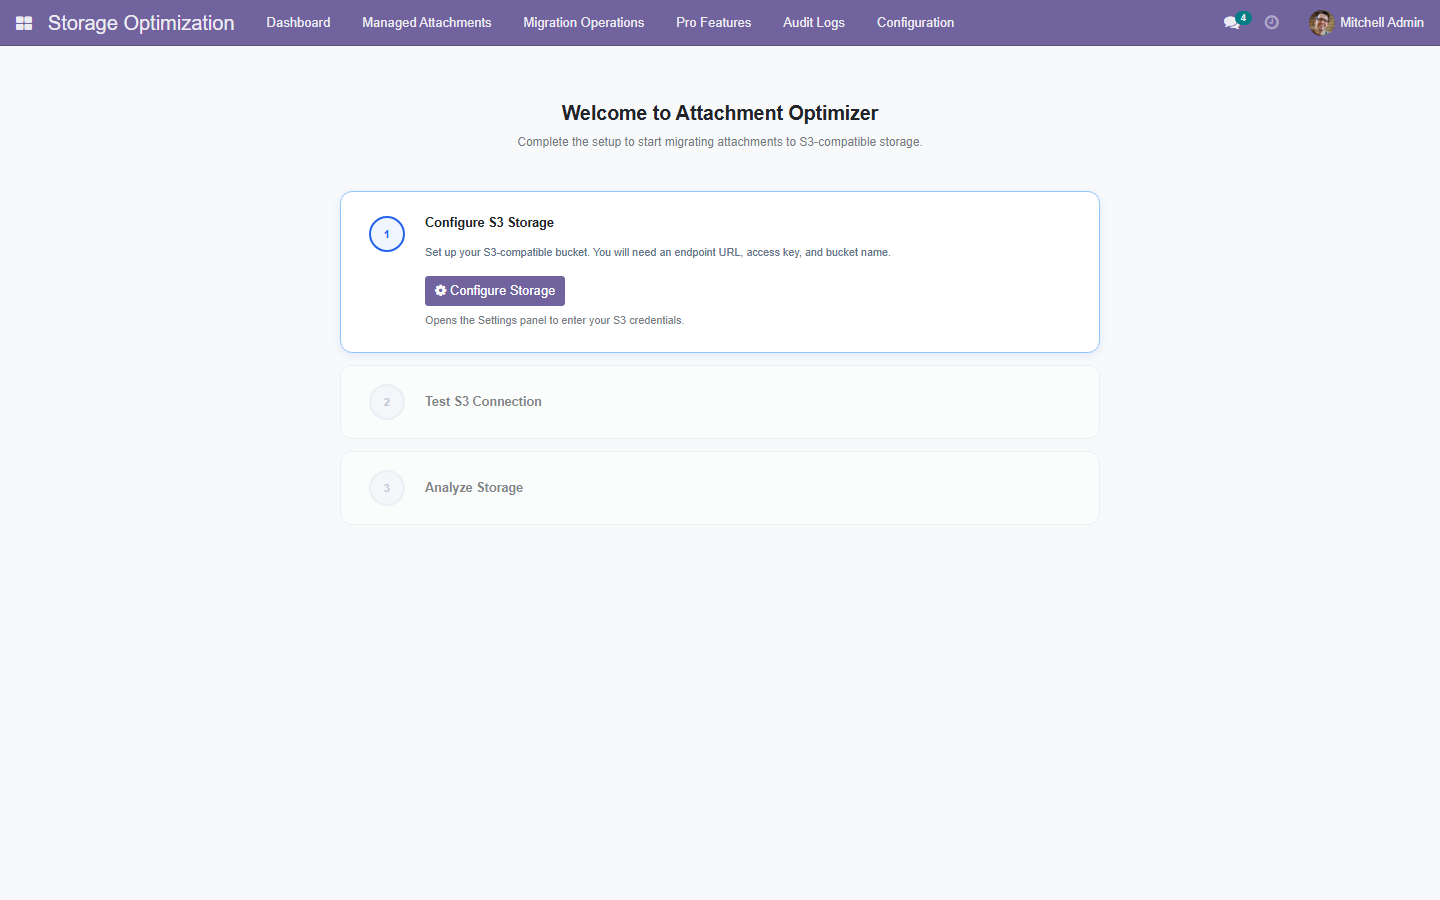
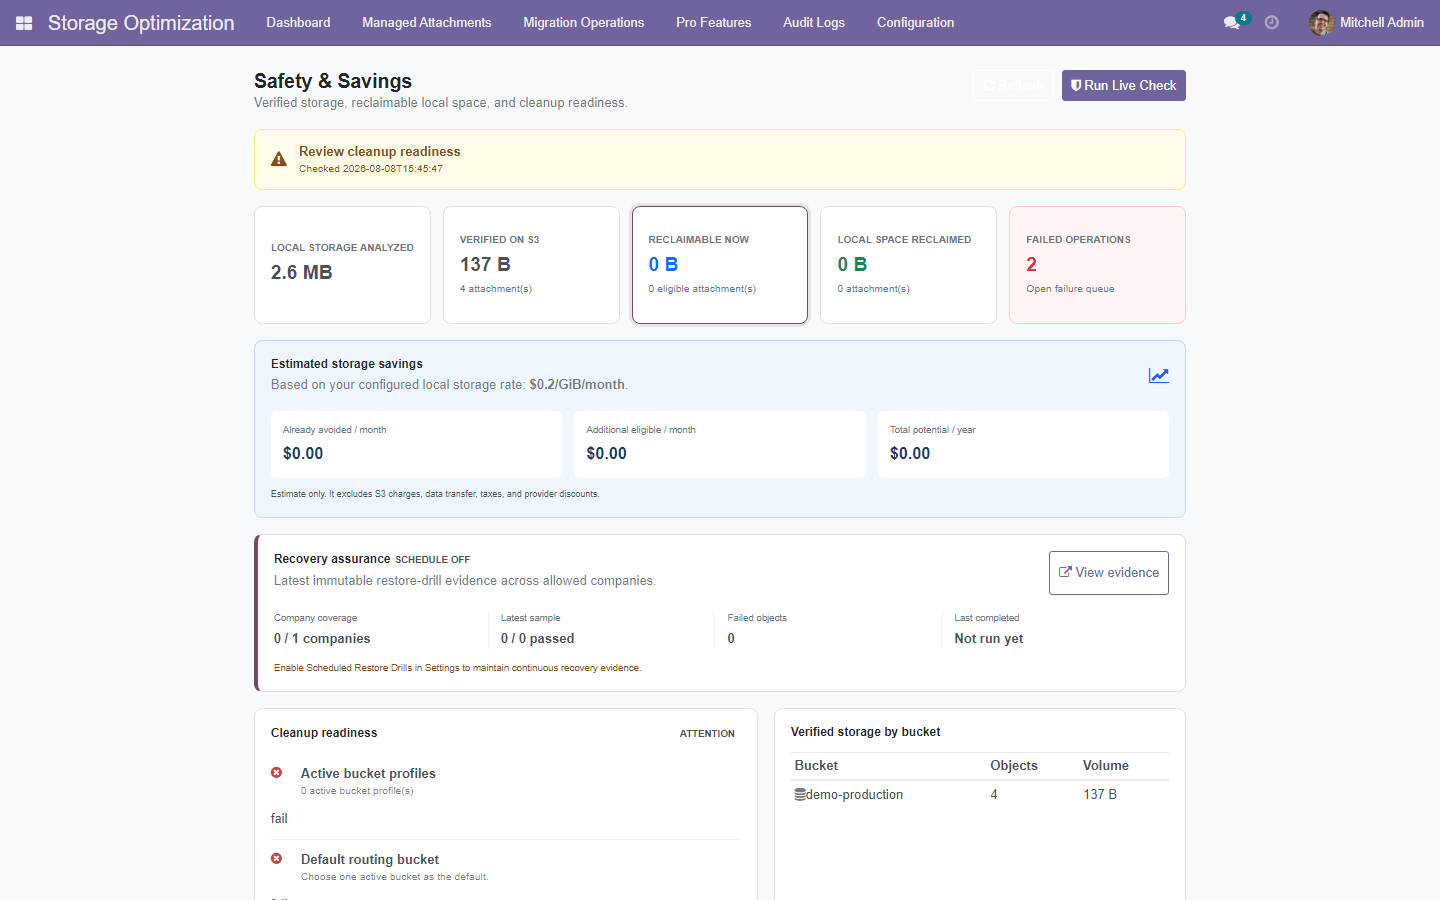
fix: render and document Pro dashboard screenshot

diff --git a/attachment_optimizer_pro/static/src/components/pro_dashboard/pro_dashboard_legacy.js b/attachment_optimizer_pro/static/src/components/pro_dashboard/pro_dashboard_legacy.js
@@ -1,17 +1,20 @@
-/** @odoo-module **/
+odoo.define("attachment_optimizer_pro.safety_dashboard", function (require) {
+"use strict";
 
-import { Component, onWillStart, useState } from "@odoo/owl";
-import { registry } from "@web/core/registry";
-import { useService } from "@web/core/utils/hooks";
+const AbstractAction = require("web.AbstractAction");
+const core = require("web.core");
+const { ComponentWrapper, WidgetAdapterMixin } = require("web.OwlCompatibility");
+const { Component } = owl;
+const { onWillStart, useState } = owl.hooks;
 
-export class ProSafetyDashboard extends Component {
+
+class ProSafetyDashboard extends Component {
 static template = "attachment_optimizer_pro.SafetyDashboard";
-    static props = {};
 
     setup() {
-        this.orm = useService("orm");
-        this.action = useService("action");
-        this.notification = useService("notification");
+        this.orm = { call: this.props.rpc };
+        this.action = { doAction: this.props.doAction };
+        this.notification = { add: this.props.notify };
         this.state = useState({
             loading: true,
             checking: false,
@@ -121,7 +124,7 @@ static template = "attachment_optimizer_pro.SafetyDashboard";
             name: "Restore Drill Evidence",
             res_model: "attachment.restore.drill",
             view_mode: "tree,form",
-            views: [[false, "list"], [false, "form"]],
+            views: [[false, "tree"], [false, "form"]],
             domain: [],
         });
     }
@@ -138,7 +141,27 @@ static template = "attachment_optimizer_pro.SafetyDashboard";
     }
 }
 
-registry.category("actions").add(
+ProSafetyDashboard.template = "attachment_optimizer_pro.SafetyDashboard";
+
+const SafetyDashboardAction = AbstractAction.extend(WidgetAdapterMixin, {
+    start() {
+        this.component = new ComponentWrapper(this, ProSafetyDashboard, {
+            rpc: (model, method, args, kwargs) => this._rpc({
+                model, method, args, kwargs: kwargs || {},
+            }),
+            doAction: (action, options) => this.do_action(action, options || {}),
+            notify: (message, options) => this.displayNotification({
+                message,
+                type: (options && options.type) || "info",
+            }),
+        });
+        return this.component.mount(this.el);
+    },
+});
+
+core.action_registry.add(
     "attachment_optimizer_pro.safety_dashboard",
-    ProSafetyDashboard
+    SafetyDashboardAction
 );
+return SafetyDashboardAction;
+});

diff --git a/attachment_optimizer_pro/static/description/index.html b/attachment_optimizer_pro/static/description/index.html
@@ -96,6 +96,6 @@ For subsequent modules, update content inside sections only. Do not alter sectio
     </div>
 
     <!-- FOOTER -->
-    <div style="border:1px solid #e2e8f0; border-radius:16px; padding:32px 24px; margin:40px 0 16px; text-align:center;"><div style="font-size:14px; font-weight:700; color:#1e293b; text-transform:uppercase;">Attachment Optimizer Pro</div><p style="font-size:13px; color:#64748b; line-height:1.6;">Automated, verified S3-compatible attachment lifecycle management for Odoo.</p><div style="display:inline-block; border:2px solid #4f46e5; color:#4f46e5; font-weight:700; font-size:13px; padding:10px 28px; border-radius:8px;">US$49 · One-Time · No Subscription</div><p style="font-size:11px; color:#94a3b8; margin:20px 0 0;">Version 15.0.1.0.15 · Built and maintained by FoxPink</p></div>
+    <div style="border:1px solid #e2e8f0; border-radius:16px; padding:32px 24px; margin:40px 0 16px; text-align:center;"><div style="font-size:14px; font-weight:700; color:#1e293b; text-transform:uppercase;">Attachment Optimizer Pro</div><p style="font-size:13px; color:#64748b; line-height:1.6;">Automated, verified S3-compatible attachment lifecycle management for Odoo.</p><div style="display:inline-block; border:2px solid #4f46e5; color:#4f46e5; font-weight:700; font-size:13px; padding:10px 28px; border-radius:8px;">US$49 · One-Time · No Subscription</div><p style="font-size:11px; color:#94a3b8; margin:20px 0 0;">Version 15.0.1.0.16 · Built and maintained by FoxPink</p></div>
   </div>
 </section>

diff --git a/attachment_optimizer_pro/__manifest__.py b/attachment_optimizer_pro/__manifest__.py
@@ -1,6 +1,6 @@
 {
     "name": "Attachment Optimizer Pro",
-    "version": "15.0.1.0.15",
+    "version": "15.0.1.0.16",
     "category": "Storage",
     "summary": "Automation, cleanup, routing and lifecycle for S3-compatible attachment storage.",
     "description": """
@@ -42,10 +42,15 @@
         "data/pro_params.xml",
         "data/pro_cron.xml",
     ],
+    "qweb": [
+        "static/src/components/pro_dashboard/pro_dashboard.xml",
+    ],
     "assets": {
-        "web.assets_backend": [
-            "attachment_optimizer_pro/static/src/components/pro_dashboard/pro_dashboard.js",
+        "web.assets_qweb": [
             "attachment_optimizer_pro/static/src/components/pro_dashboard/pro_dashboard.xml",
+        ],
+        "web.assets_backend": [
+            "attachment_optimizer_pro/static/src/components/pro_dashboard/pro_dashboard_legacy.js",
             "attachment_optimizer_pro/static/src/components/pro_dashboard/pro_dashboard.scss",
         ],
     },

diff --git a/README.md b/README.md
@@ -8,7 +8,7 @@ Only update product content, version, links, compatibility status, screenshots, 
 
 ![Attachment Optimizer Pro](attachment_optimizer_pro/static/description/preview.png)
 
-**Version:** 15.0.1.0.15 -- **License:** OPL-1 -- **Publisher:** FoxPink -- Maintained for **Odoo 15.0**
+**Version:** 15.0.1.0.16 -- **License:** OPL-1 -- **Publisher:** FoxPink -- Maintained for **Odoo 15.0**
 
 ---
 
